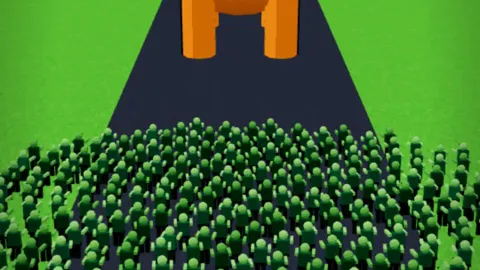
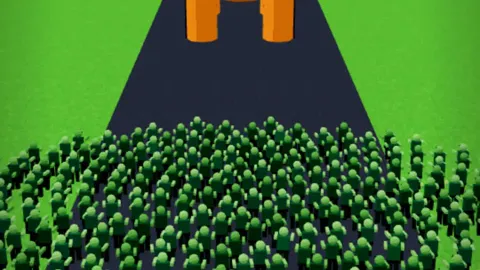
Zombie Horde + Black Hole City on the new kit (shell, feel, walk cycle, camera)

Changed region(s): [[0.0, 0.4148, 1.0, 1.0], [0.375, 0.0, 0.625, 0.237]]

diff --git a/brad-demos/g/black-hole/index.html b/brad-demos/g/black-hole/index.html
@@ -3,15 +3,14 @@
 // Black Hole City: steer a hole that swallows coins, benches, trees, cars, houses, then skyscrapers. WASD / arrows / drag.
 // Anything smaller than the hole falls in (shrinks toward the centre); everything is one InstancedMesh per prop type.
 import { createStage, instances, sfx, rand, clamp, THREE } from '../_vendor/gp3d.js';
-import { toon, zombieGeo, catGeo, crowd, particles, sky, groundTex } from '../_vendor/gpkit.js';
+import { toon, zombieGeo, catGeo, crowd, particles, sky, groundTex, walkClock } from '../_vendor/gpkit.js';
 const st = createStage({ bg: 0x9fd8ff, fitWidth: 16, fov: 50 }); st.light(); sky(st.scene, 0x4aa8ff, 0xdff3ff, [70, 190]); const fx = particles(st.scene, 400);
 const A = 46, GROW = +(new URLSearchParams(location.search).get('grow') || 1); // half-size of the map
-const ground = new THREE.Mesh(new THREE.PlaneGeometry(A * 2.6, A * 2.6), toon(0xffffff, { map: groundTex('grass', 50) })); ground.rotation.x = -Math.PI / 2; st.scene.add(ground);
+const ground = new THREE.Mesh(new THREE.PlaneGeometry(700, 700), toon(0xffffff, { map: groundTex('grass', 290) })); ground.rotation.x = -Math.PI / 2; st.scene.add(ground);
 for (let i = -3; i <= 3; i++) for (const [w, h] of [[2.4, A * 2.6], [A * 2.6, 2.4]]) { const r = new THREE.Mesh(new THREE.PlaneGeometry(w, h), toon(0x4a4f5c)); r.rotation.x = -Math.PI / 2; r.position.set(w < 3 ? i * 15 : 0, .02, w < 3 ? 0 : i * 15); st.scene.add(r); }
 const hole = new THREE.Mesh(new THREE.CircleGeometry(1, 40), new THREE.MeshBasicMaterial({ color: 0x000000 })); hole.rotation.x = -Math.PI / 2; hole.position.y = .06; st.scene.add(hole);
 const aura = new THREE.Mesh(new THREE.RingGeometry(1.12, 1.7, 40), new THREE.MeshBasicMaterial({ color: 0x7b4bff, transparent: true, opacity: .3, side: THREE.DoubleSide, depthWrite: false })); aura.rotation.x = -Math.PI / 2; aura.position.y = .065; st.scene.add(aura);
-const CG = f => { try { window.CrazyGames?.SDK?.game?.[f]?.(); } catch (e) {} };
-let best = 0, tleft = 90, over = false, endT = 0; try { best = +localStorage.getItem('bh-best') || 0; } catch (e) {}
+let tleft = 90, over = false;
 const ring = new THREE.Mesh(new THREE.RingGeometry(1, 1.12, 40), new THREE.MeshBasicMaterial({ color: 0x7b4bff, side: THREE.DoubleSide })); ring.rotation.x = -Math.PI / 2; ring.position.y = .07; st.scene.add(ring);
 // prop types: [geometry, size (footprint radius), height, volume score, count, colors]
 const TYPES = [
@@ -19,8 +18,8 @@ const TYPES = [
   { n: 'bench', g: new THREE.BoxGeometry(1.4, .5, .5), r: .8, h: .5, vol: 1.2, count: 40, col: [0x8a5a2e] },
   { n: 'tree', g: new THREE.ConeGeometry(.9, 2.6, 8), r: .9, h: 2.6, vol: 2.5, count: 50, col: [0x2f8f4a, 0x3aa65a] },
   { n: 'car', g: new THREE.BoxGeometry(2.4, 1.1, 1.2), r: 1.4, h: 1.1, vol: 4, count: 44, col: [0xe63946, 0x457b9d, 0xf1c453, 0xeeeeee] },
-  { n: 'house', g: new THREE.BoxGeometry(4, 3, 4), r: 2.8, h: 3, vol: 14, count: 32, col: [0xf4a261, 0xe9c46a, 0xd8b4a0, 0xb8c0ff] },
-  { n: 'tower', g: new THREE.BoxGeometry(5, 14, 5), r: 3.6, h: 14, vol: 40, count: 20, col: [0x6c7a96, 0x5a6785, 0x8892b0] },
+  { n: 'house', g: new THREE.BoxGeometry(4, 3, 4), r: 2.8, h: 3, vol: 14, count: 32, col: [0xff8a3c, 0xffd23c, 0xff6b9a, 0x6ec6ff] },
+  { n: 'tower', g: new THREE.BoxGeometry(5, 14, 5), r: 3.6, h: 14, vol: 40, count: 20, col: [0x3a7bd5, 0xe0457b, 0x7b4bff, 0x1fb6a6] },
 ];
 const winTex = (c, w, h) => { const cv = document.createElement('canvas'); cv.width = 64; cv.height = 128; const g = cv.getContext('2d'); g.fillStyle = c; g.fillRect(0, 0, 64, 128); for (let y = 8; y < 120; y += 18) for (let x = 8; x < 60; x += 18) { g.fillStyle = Math.random() < .35 ? '#ffe9a0' : '#2c3a58'; g.fillRect(x, y, 10, 10); } const t = new THREE.CanvasTexture(cv); t.colorSpace = THREE.SRGBColorSpace; return t; };
 TYPES[4].win = winTex('#d7a06a'); TYPES[5].win = winTex('#8892b0');
@@ -31,30 +30,32 @@ for (const T of TYPES) { const im = instances(T.g, T.win ? toon(0xffffff, { map:
     if (T.n === 'tower') { x = (Math.floor(rand(-3, 3)) + .5) * 15 + rand(-3, 3); z = (Math.floor(rand(-3, 3)) + .5) * 15 + rand(-3, 3); }
     const it = { x, z, s: 1, fall: 0, gone: false, rot: rand(0, 6) }; T.items.push(it); im.color(i, T.col[i % T.col.length]); } }
 const PN = 120, PED = Array.from({ length: PN }, (_, i) => ({ zom: i % 2 === 0, x: rand(-A, A), z: rand(-A, A), a: rand(0, 6), fall: 0, gone: false }));
-const ZB = crowd(st.scene, zombieGeo(), PN / 2), CT = crowd(st.scene, catGeo(), PN / 2); for (let i = 0; i < PN / 2; i++) { ZB.color(i, 0x8fcf7a); CT.color(i, [0xff9a3c, 0xf4efe4, 0x9aa0aa][i % 3]); }
+const ZB = crowd(st.scene, zombieGeo(), PN / 2, true, .75), CT = crowd(st.scene, catGeo(), PN / 2, true, .35); for (let i = 0; i < PN / 2; i++) { ZB.color(i, 0x8fcf7a); CT.color(i, [0xff9a3c, 0xf4efe4, 0x9aa0aa][i % 3]); }
 let screamCd = 0; const AUTOP = new URLSearchParams(location.search).has('auto');
 let hx = 0, hz = 0, size = 1.4, eaten = 0, shown = 0, lvl = 0; const LV = ['COINS', 'BENCHES', 'TREES', 'CARS', 'HOUSES', 'SKYSCRAPERS'];
 const ray = new THREE.Raycaster(), plane = new THREE.Plane(new THREE.Vector3(0, 1, 0), 0), tmp = new THREE.Vector3();
-function reset() { for (const T of TYPES) for (const it of T.items) { it.fall = 0; it.gone = false; it.s = 1; } for (const p of PED) { p.fall = 0; p.gone = false; } hx = hz = 0; eaten = 0; lvl = 0; tleft = 90; over = false; endT = 0; st.hud.banner('GO!', .8); CG('gameplayStart'); }
-CG('gameplayStart');
+function reset() { for (const T of TYPES) for (const it of T.items) { it.fall = 0; it.gone = false; it.s = 1; } for (const p of PED) { p.fall = 0; p.gone = false; } hx = hz = 0; eaten = 0; lvl = 0; tleft = 90; over = false; endT = 0; st.hud.banner('GO!', .8); }
+st.shell({ id: 'black-hole', title: 'BLACK HOLE CITY', sub: 'Swallow everything. 90 seconds.', onReset: reset });
+st.cine([{ t: 0, p: [0, 0, 0] }, { t: 0.01, p: [0, -3, -4] }, { t: 4, p: [0, 0, 0] }]);
 function update(dt) {
-  if (over) { endT += dt; if (!AUTOP && endT > 1.2 && (st.keys.r || st.keys.enter || st.ptr.down)) reset(); fx.update(dt); st.hud.hint(endT > 1.2 ? 'TAP or R to play again' : ''); return; }
+  if (over) { fx.update(dt); return; }
+  walkClock.value = st.t;
   tleft -= dt;
   const k = st.keys; let mx = (k.d || k.arrowright ? 1 : 0) - (k.a || k.arrowleft ? 1 : 0), mz = (k.s || k.arrowdown ? 1 : 0) - (k.w || k.arrowup ? 1 : 0);
   if (st.ptr.down) { ray.setFromCamera({ x: st.ptr.x, y: -st.ptr.y }, st.camera); if (ray.ray.intersectPlane(plane, tmp)) { const dx = tmp.x - hx, dz = tmp.z - hz, d = Math.hypot(dx, dz); if (d > .3) { mx = dx / d; mz = dz / d; } } }
   const l = Math.hypot(mx, mz) || 1, sp = 7 + size * 1.4; hx = clamp(hx + mx / l * sp * dt, -A, A); hz = clamp(hz + mz / l * sp * dt, -A, A);
   for (const T of TYPES) for (const it of T.items) { if (it.gone) continue; const d = Math.hypot(it.x - hx, it.z - hz);
     if (it.fall === 0 && d < size * .92 && T.r < size * .78) { it.fall = 1e-3; }
-    if (it.fall > 0) { it.fall += dt * 1.6; it.x += (hx - it.x) * Math.min(1, dt * 8); it.z += (hz - it.z) * Math.min(1, dt * 8); it.s = Math.max(0, 1 - it.fall); if (it.fall >= 1) { it.gone = true; eaten += T.vol * GROW; if (T.n !== 'coin') { sfx('pop', .4); st.shake(T.vol > 10 ? 3 : 1); } else if (Math.random() < .3) sfx('tick', .3); } } }
+    if (it.fall > 0) { it.fall += dt * 1.6; it.x += (hx - it.x) * Math.min(1, dt * 8); it.z += (hz - it.z) * Math.min(1, dt * 8); it.s = Math.max(0, 1 - it.fall); if (it.fall >= 1) { it.gone = true; eaten += T.vol * GROW; if (T.n !== 'coin') { sfx('pop', .4); st.shake(T.vol > 10 ? 3 : 1); if (T.vol > 10) { st.popup('+' + Math.round(T.vol), { x: hx, y: 3, z: hz }, '#c9a8ff'); st.hitstop(.04); st.kick(3); } } else if (Math.random() < .3) sfx('tick', .3); } } }
   screamCd -= dt;
   for (const p of PED) { if (p.gone) continue; const dx = p.x - hx, dz = p.z - hz, d = Math.hypot(dx, dz);
     if (p.fall === 0) { if (d < size * 2.4 && !p.zom) p.a = Math.atan2(dz, dx); else if (p.zom && d < 28) p.a = Math.atan2(-dz, -dx) + Math.sin(st.t) * .3; else p.a += rand(-1, 1) * dt * 2; p.x = clamp(p.x + Math.cos(p.a) * (p.zom ? 2.2 : 5) * dt, -A, A); p.z = clamp(p.z + Math.sin(p.a) * (p.zom ? 2.2 : 5) * dt, -A, A); if (d < size * .85) { p.fall = 1e-3; if (screamCd <= 0) { sfx(p.zom ? 'groan' : 'meow', .5); screamCd = .12; } } }
     else { p.fall += dt * 1.8; p.x += (hx - p.x) * Math.min(1, dt * 7); p.z += (hz - p.z) * Math.min(1, dt * 7); if (p.fall >= 1) { p.gone = true; eaten += .8 * GROW; fx.burst(8, { x: hx, y: .5, z: hz, size: .2, life: .6, color: p.zom ? 0x8bff4a : 0xff9a3c, g: 4 }, 3); } } }
   fx.update(dt);
-  size = 1.4 + Math.sqrt(eaten) * .5; const nl = TYPES.findIndex(T => T.r >= size * .78); const cl = nl < 0 ? TYPES.length : nl; if (cl > lvl && lvl < LV.length) { lvl = cl; if (lvl < TYPES.length) { st.hud.banner('NOW EATING ' + LV[lvl].toString(), 1.6); sfx('win'); } else st.hud.banner('EAT THE CITY', 2); }
+  size = 1.4 + Math.sqrt(eaten) * .5; const nl = TYPES.findIndex(T => T.r >= size * .78); const cl = nl < 0 ? TYPES.length : nl; if (cl > lvl && lvl < LV.length) { lvl = cl; if (lvl < TYPES.length) { st.hud.banner('NOW EATING ' + LV[lvl].toString(), 1.6); sfx('win'); st.slowmo(.4, .6); st.flash('#7b4bff', .35); } else st.hud.banner('EAT THE CITY', 2); }
   const total = TYPES.reduce((a, T) => a + T.items.filter(i => !i.gone).length, 0);
-  st.hud.left(`SIZE<br><span style="color:#ffd34d;font-size:8vmin">${size.toFixed(1)}m</span>`); st.hud.right(`EATEN ${Math.round(eaten)}<br>LEFT ${total}<br>${Math.ceil(Math.max(0, tleft))}s · BEST ${best}`); st.hud.hint('WASD / drag to move the hole');
-  if (tleft <= 0 || total === 0) { over = true; endT = 0; CG('gameplayStop'); const sc = Math.round(eaten); if (sc > best) { best = sc; try { localStorage.setItem('bh-best', sc); } catch (e) {} } st.hud.banner(total === 0 ? 'CITY EATEN!' : 'TIME UP: ' + sc, 3); sfx('win'); }
+  st.hud.left(`SIZE<br><span style="color:#ffd34d;font-size:8vmin">${size.toFixed(1)}m</span>`); st.hud.right(`EATEN ${Math.round(eaten)}<br>LEFT ${total}<br>${Math.ceil(Math.max(0, tleft))}s`); st.hud.hint('WASD / drag to move the hole');
+  if (tleft <= 0 || total === 0) { over = true; st.hud.banner(total === 0 ? 'CITY EATEN!' : 'TIME UP', 3); sfx('win'); st.flash('#7b4bff', .5); st.end({ win: total === 0 || eaten > 800, score: Math.round(eaten), label: 'EATEN' }); }
   window.__game = { size: +size.toFixed(2), eaten: Math.round(eaten), left: total };
 }
 const camP = new THREE.Vector3(0, 12, 12), look = new THREE.Vector3();
@@ -62,7 +63,7 @@ function pre() {
   for (const T of TYPES) { T.items.forEach((it, i) => T.im.set(i, it.x, it.gone ? -50 : T.h / 2 * it.s - (it.fall > 0 ? it.fall * T.h * .6 : 0), it.z, it.s, it.s, it.s, 0, it.rot, 0)); T.im.done(); }
   { let zi = 0, ci = 0; for (const p of PED) { const s = p.gone ? 0 : (1 - p.fall) * .75, y = p.fall ? -p.fall * 1.2 : Math.abs(Math.sin(st.t * 11 + p.a * 3)) * .15; (p.zom ? ZB : CT).set(p.zom ? zi++ : ci++, p.x, y, p.z, s, p.fall ? st.t * 8 : -p.a + Math.PI / 2, 0, p.fall ? .5 : 0); } ZB.done(zi); CT.done(ci); }
   hole.scale.setScalar(size); ring.scale.setScalar(size); aura.scale.setScalar(size); aura.rotation.z = st.t * 2; aura.position.x = hx; aura.position.z = hz; hole.position.x = ring.position.x = hx; hole.position.z = ring.position.z = hz;
-  const h = 10 + size * 4.2, z = 9 + size * 3.2; camP.set(hx, h, hz + z * 1.0); st.camera.position.lerp(camP, .08); look.set(hx, 0, hz - 1); st.camera.lookAt(look);
+  const h = 8 + size * 6.0, z = 7 + size * 4.6; camP.set(hx, h, hz + z * 1.0); st.camera.position.lerp(camP, .08); look.set(hx, 0, hz - 1); st.camera.lookAt(look);
 }
 st.camera.position.set(0, 14, 14); st.run(update, pre);
 </script></body></html>

diff --git a/brad-demos/g/zombie-horde/index.html b/brad-demos/g/zombie-horde/index.html
@@ -3,41 +3,42 @@
 // Zombie Horde: steer a growing zombie mob (A/D or drag) through math gates, then overwhelm the GIANT CAT boss. One instanced zombie mesh;
 // only the first 700 are drawn, the counter shows the real number. Gate side is chosen by where the crowd centre is when it crosses.
 import { createStage, instances, sfx, rand, clamp, THREE } from '../_vendor/gp3d.js';
-import { toon, zombieGeo, catGeo, crowd, hero, particles, sky, groundTex } from '../_vendor/gpkit.js';
+import { toon, zombieGeo, catGeo, crowd, hero, particles, sky, groundTex, walkClock } from '../_vendor/gpkit.js';
 const st = createStage({ bg: 0x8fd3ff, fitWidth: 9.5, fov: 55, fog: [40, 110] }); st.light(); sky(st.scene, 0x3f8cff, 0xffe7b8, [50, 150]);
 const TRACK = 190, MAXDRAW = 700;
 const road = new THREE.Mesh(new THREE.PlaneGeometry(10, TRACK + 60), toon(0xffffff, { map: groundTex('asphalt', 10) })); road.rotation.x = -Math.PI / 2; road.position.z = TRACK / 2; st.scene.add(road);
 const grass = new THREE.Mesh(new THREE.PlaneGeometry(200, TRACK + 200), toon(0xffffff, { map: groundTex('grass', 60) })); grass.rotation.x = -Math.PI / 2; grass.position.set(0, -.02, TRACK / 2); st.scene.add(grass);
 const OPS = [['+20', n => n + 20, 1], ['×2', n => n * 2, 1], ['-15', n => Math.max(1, n - 15), 0], ['×3', n => n * 3, 1], ['+50', n => n + 50, 1], ['×2', n => n * 2, 1], ['-30', n => Math.max(1, n - 30), 0], ['×4', n => n * 4, 1]];
 const lab = (t, good) => { const cv = document.createElement('canvas'); cv.width = 256; cv.height = 192; const g = cv.getContext('2d'); g.fillStyle = good ? 'rgba(46,160,255,.7)' : 'rgba(255,70,70,.7)'; g.fillRect(0, 0, 256, 192); g.font = '900 120px Impact,Arial Black'; g.textAlign = 'center'; g.fillStyle = '#fff'; g.strokeStyle = '#000'; g.lineWidth = 10; g.strokeText(t, 128, 140); g.fillText(t, 128, 140); return new THREE.MeshBasicMaterial({ map: new THREE.CanvasTexture(cv), transparent: true, side: THREE.DoubleSide }); };
-const gates = []; for (let i = 0; i < 6; i++) { const z = 22 + i * 24, a = OPS[(i * 2) % 8], b = OPS[(i * 2 + 1) % 8], pair = [a, b]; if (i % 2) pair.reverse();
-  pair.forEach((op, s) => { const m = new THREE.Mesh(new THREE.PlaneGeometry(4.6, 3.4), lab(op[0], op[2])); m.position.set(s ? 2.5 : -2.5, 1.9, z); m.rotation.y = Math.PI; st.scene.add(m); }); gates.push({ z, ops: pair, used: false }); }
+const gates = [], gm = {}; for (let i = 0; i < 6; i++) { const z = 22 + i * 24, a = OPS[(i * 2) % 8], b = OPS[(i * 2 + 1) % 8], pair = [a, b]; if (i % 2) pair.reverse();
+  pair.forEach((op, s) => { const m = new THREE.Mesh(new THREE.PlaneGeometry(4.6, 3.4), lab(op[0], op[2])); m.position.set(s ? 2.5 : -2.5, 1.9, z); m.rotation.y = Math.PI; st.scene.add(m); (gm[z] = gm[z] || []).push(m); }); gates.push({ z, ops: pair, used: false, meshes: gm[z] }); }
 const castle = hero(catGeo(), 0xff9a3c, .025); castle.scale.setScalar(10); castle.rotation.y = Math.PI; castle.position.set(0, 0, TRACK + 2); st.scene.add(castle);
-const men = crowd(st.scene, zombieGeo(), MAXDRAW), foes = crowd(st.scene, catGeo(), 120), fx = particles(st.scene, 300);
+const men = crowd(st.scene, zombieGeo(), MAXDRAW, true, .75), foes = crowd(st.scene, catGeo(), 120, true, .35), fx = particles(st.scene, 300);
 for (let i = 0; i < MAXDRAW; i++) men.color(i, [0x7fbf6a, 0x8fcf7a, 0x6aa85a][i % 3]); for (let i = 0; i < 120; i++) foes.color(i, [0xff9a3c, 0x9aa0aa, 0xf4efe4][i % 3]);
 const AUTO = new URLSearchParams(location.search).has('auto');
 let n = 5, cx = 0, cz = 0, bossHP = 900, bossMax = 900, fight = false, won = false, lost = false, parts = [], foeN = 0, fallT = 0;
-const CG = f => { try { window.CrazyGames?.SDK?.game?.[f]?.(); } catch (e) {} };
-let best = 0, endT = 0; try { best = +localStorage.getItem('zh-best') || 0; } catch (e) {}
+let endT = 0;
 // gate frames: two posts and a glowing bar make each gate read as a real obstacle
 for (const g of gates) { const c = g.ops[0][2] && g.ops[1][2] ? 0x2ea0ff : 0xffb020; for (const x of [-5, 0, 5]) { const m = new THREE.Mesh(new THREE.BoxGeometry(.35, 3.8, .35), toon(0xdddddd)); m.position.set(x, 1.9, g.z); st.scene.add(m); } const b = new THREE.Mesh(new THREE.BoxGeometry(10.2, .35, .35), new THREE.MeshBasicMaterial({ color: c })); b.position.set(0, 3.8, g.z); st.scene.add(b); }
-function reset() { n = 5; cx = 0; cz = 0; bossHP = bossMax; fight = won = lost = false; fallT = 0; foeN = 0; parts = []; endT = 0; gates.forEach(g => g.used = false); castle.rotation.z = 0; castle.position.y = 0; st.hud.banner('GO!', .8); CG('gameplayStart'); }
-CG('gameplayStart');
+function reset() { n = 5; cx = 0; cz = 0; bossHP = bossMax; fight = won = lost = false; fallT = 0; foeN = 0; parts = []; endT = 0; gates.forEach(g => { g.used = false; g.meshes.forEach(m => { m.visible = true; }); }); castle.rotation.z = 0; castle.position.y = 0; st.hud.banner('GO!', .8); }
+st.shell({ id: 'zombie-horde', title: 'ZOMBIE HORDE', sub: 'Steer through the gates. Topple the giant cat.', onReset: reset });
+st.cine([{ t: 0, p: [0, 0, 0] }, { t: 3, p: [0, 3, -4] }, { t: 8, p: [0, 0, 0] }]);
 function update(dt) {
   if (!fight && !won && !lost) {
     const k = st.keys, mv = (k.d || k.arrowright ? 1 : 0) - (k.a || k.arrowleft ? 1 : 0); if (AUTO) { const g = gates.find(g => !g.used && g.z - cz < 14), want = g ? (g.ops[1][1](n) > g.ops[0][1](n) ? 2.4 : -2.4) : 0; cx += clamp(want - cx, -7 * dt, 7 * dt); } else if (mv) cx += mv * 7 * dt; else if (st.ptr.down) cx += (st.ptr.x * 3.8 - cx) * Math.min(1, dt * 9); cx = clamp(cx, -3.6, 3.6); cz += (9 + Math.min(4, n / 80)) * dt;
-    for (const g of gates) if (!g.used && cz >= g.z) { g.used = true; const op = g.ops[cx < 0 ? 0 : 1], before = n; n = Math.round(op[1](n)); sfx(op[2] ? 'ding' : 'crash'); st.hud.banner(op[0], .7); st.shake(op[2] ? 2 : 4); }
+    for (const g of gates) if (!g.used && cz >= g.z) { g.used = true; g.meshes.forEach(m => { m.visible = false; }); const op = g.ops[cx < 0 ? 0 : 1], before = n; n = Math.round(op[1](n)); sfx(op[2] ? 'ding' : 'crash'); st.hud.banner(op[0], .7); st.shake(op[2] ? 2 : 4); st.popup((n >= before ? '+' : '') + (n - before), { x: cx, y: 2.5, z: cz + 2 }, op[2] ? '#7dd3ff' : '#ff6b6b'); st.flash(op[2] ? '#3aa0ff' : '#ff3b3b', .25); st.kick(op[2] ? 5 : 2); if (n - before > 100) st.hitstop(.08); }
     if (cz >= TRACK - 16) { fight = true; foeN = 120; st.hud.banner('BOSS!', 1.2); sfx('boom'); }
   } else if (fight) {
     cz += (TRACK - 9 - cz) * Math.min(1, dt * 2); cx += (0 - cx) * Math.min(1, dt * 3); const dmg = n * .9 * dt, back = (bossMax * .5 + 80) * dt * (bossHP / bossMax + .2);
     bossHP -= dmg; n -= back; foeN = Math.ceil(120 * Math.max(0, bossHP) / bossMax); if (Math.random() < .3) sfx('tick', .3); st.shake(2);
-    if (bossHP <= 0) { fight = false; won = true; st.hud.banner('CASTLE DOWN!', 3); sfx('boom'); st.shake(14); sfx('win'); for (let i = 0; i < 60; i++) parts.push({ x: rand(-4, 4), y: rand(1, 12), z: TRACK + rand(-2, 2), vx: rand(-4, 4), vy: rand(2, 9), vz: rand(-3, 6) }); }
+    if (bossHP <= 0) { fight = false; won = true; st.hud.banner('CASTLE DOWN!', 3); sfx('boom'); st.shake(14); st.hitstop(.15); st.slowmo(.25, 1.2); st.flash('#fff', .7); sfx('win'); for (let i = 0; i < 60; i++) parts.push({ x: rand(-4, 4), y: rand(1, 12), z: TRACK + rand(-2, 2), vx: rand(-4, 4), vy: rand(2, 9), vz: rand(-3, 6) }); }
     else if (n <= 0) { n = 0; fight = false; lost = true; st.hud.banner('CRUSHED', 3); }
   }
   if (won) { fallT += dt; castle.rotation.z = Math.min(1.45, fallT * 1.1); castle.position.y = -fallT * .5; if (fallT < 1.5 && Math.random() < .5) fx.burst(3, { x: rand(-4, 4), y: 1, z: TRACK, size: .5, life: .8, color: 0xe8dcc0, g: 2 }, 4); }
-  if (won || lost) { if (!endT) { CG('gameplayStop'); if (n > best) { best = Math.round(n); try { localStorage.setItem('zh-best', best); } catch (e) {} } } endT += dt; if (!AUTO && endT > 1.2 && (st.keys.r || st.keys.enter || st.ptr.down)) reset(); }
+  if ((won || lost) && !endT) { endT = 1; st.end({ win: won, score: Math.round(n), label: 'CROWD' }); }
+  walkClock.value = st.t;
   fx.update(dt); for (const p of parts) { p.vy -= 14 * dt; p.x += p.vx * dt; p.y = Math.max(.1, p.y + p.vy * dt); p.z += p.vz * dt; }
-  st.hud.left(`CROWD<br><span style="color:#ffd34d;font-size:8vmin">${Math.max(0, Math.round(n)).toLocaleString()}</span>`); st.hud.right(fight || won ? `BOSS<br>${Math.max(0, Math.round(bossHP))}<br>BEST ${best}` : `GATES ${gates.filter(g => g.used).length}/${gates.length}`); st.hud.hint(won || lost ? (endT > 1.2 ? 'TAP or R to play again' : '') : 'A/D or drag: steer');
+  st.hud.left(`CROWD<br><span style="color:#ffd34d;font-size:8vmin">${Math.max(0, Math.round(n)).toLocaleString()}</span>`); st.hud.right(fight || won ? `BOSS<br>${Math.max(0, Math.round(bossHP))}` : `GATES ${gates.filter(g => g.used).length}/${gates.length}`); st.hud.hint('A/D or drag: steer');
   window.__game = { crowd: Math.round(n), boss: Math.round(bossHP), z: Math.round(cz), won, lost };
 }
 function pre() {

diff --git a/brad-demos/g/_vendor/gp3d.js b/brad-demos/g/_vendor/gp3d.js
@@ -7,10 +7,12 @@ export const rand = (a = 0, b = 1) => a + Math.random() * (b - a);
 export const clamp = (v, a, b) => Math.max(a, Math.min(b, v));
 
 export const events = (window.__events = []);
-let ac;
+let ac, muted = false;
+export const setMuted = m => { muted = m; };
 /** Tiny synth. Logs every call to window.__events so gamepress can rebuild the audio offline. */
 export function sfx(type, vol = 1) {
   events.push({ t: +(performance.now() / 1000).toFixed(2), type });
+  if (muted) return;
   try {
     ac = ac || new (window.AudioContext || window.webkitAudioContext)();
     const t = ac.currentTime, o = ac.createOscillator(), g = ac.createGain(); o.connect(g); g.connect(ac.destination);
@@ -48,15 +50,60 @@ export function createStage({ bg = 0x101820, fov = 50, fitWidth = 10, fog } = {}
   st.hud = { left: s => (q('#h-l').innerHTML = s), right: s => (q('#h-r').innerHTML = s), hint: s => (q('#h-b').textContent = new URLSearchParams(location.search).has('clean') ? '' : s),
     banner(s, secs = 1.2) { q('#h-c').textContent = s; bannerT = secs; }, _tick(dt) { if (bannerT > 0 && (bannerT -= dt) <= 0) q('#h-c').textContent = ''; } };
   st.shake = a => { st.shakeAmt = Math.max(st.shakeAmt, a); };
-  /** update(dt) runs at a fixed 1/60 s; render happens once per animation frame. */
+  // ---- game feel: hit-stop, slow-mo, FOV kick, screen flash, floating text, scripted camera moves
+  st.freeze = 0; st.timeScale = 1; st.slowT = 0; st.paused = false; st.kickFov = 0; st.cineKeys = null; let flashA = 0, flashC = '#fff';
+  const flashEl = document.createElement('div'); flashEl.style.cssText = 'position:fixed;inset:0;pointer-events:none;opacity:0'; document.body.appendChild(flashEl);
+  const pops = []; const popLayer = document.createElement('div'); popLayer.style.cssText = 'position:fixed;inset:0;pointer-events:none;overflow:hidden'; document.body.appendChild(popLayer);
+  st.hitstop = (sec = .06) => { st.freeze = Math.max(st.freeze, sec); };
+  st.slowmo = (factor = .3, secs = 1) => { st.timeScale = factor; st.slowT = secs; };
+  st.flash = (color = '#fff', a = .5) => { flashA = a; flashC = color; };
+  st.kick = (deg = 6) => { st.kickFov = Math.max(st.kickFov, deg); };
+  /** Floating text at a world position (pos {x,y,z}); rises and fades over ~0.9 s of game time. */
+  st.popup = (text, pos, color = '#ffd34d', size = 6) => { const el = document.createElement('div'); el.textContent = text; el.style.cssText = `position:absolute;font-size:${size}vmin;color:${color};font-weight:900;text-shadow:0 .5vmin 0 #000,0 0 1vmin #000;transform:translate(-50%,-50%);white-space:nowrap`; popLayer.appendChild(el); pops.push({ el, p: { x: pos.x, y: pos.y, z: pos.z }, t: 0 }); if (pops.length > 24) pops.shift().el.remove(); };
+  /** Scripted camera move: keys [{t, p:[dx,dy,dz], fov}] in game seconds; offsets are added to the camera after the game positions it. */
+  st.cine = keys => { st.cineKeys = keys; };
+  // ---- shell: title card, pause, results with best score, replay, mute. Skipped under ?auto / ?clean so capture stays clean.
+  const qs = new URLSearchParams(location.search), CLEAN = qs.has('clean') || qs.has('auto');
+  const ov = document.createElement('div'); ov.style.cssText = 'position:fixed;inset:0;display:none;align-items:center;justify-content:center;flex-direction:column;text-align:center;color:#fff;background:rgba(8,10,20,.72);font-size:5vmin;text-shadow:0 .6vmin 0 #000;z-index:9'; document.body.appendChild(ov);
+  let shellOn = false, ended = false, endT = 0, shellId = 'game';
+  const show = html => { ov.innerHTML = html; ov.style.display = 'flex'; }, hide = () => { ov.style.display = 'none'; };
+  st.shell = ({ id, title, sub = 'Tap or press any key to start', onReset } = {}) => {
+    shellId = id || 'game'; st.onReset = onReset; shellOn = true;
+    if (!CLEAN) { st.paused = true; show(`<div style="font-size:12vmin;color:#ffd34d;line-height:1">${title}</div><div style="font-size:4vmin;margin-top:3vh;font-family:system-ui,sans-serif;font-weight:800">${sub}</div>`); }
+    const go = () => { if (st.paused && !ended) { st.paused = false; hide(); st.onStart?.(); } else if (ended && endT > .8) { ended = false; hide(); st.onReset?.(); } };
+    addEventListener('pointerdown', go); addEventListener('keydown', e => {
+      if (e.key === 'm' || e.key === 'M') { muted = !muted; } else if ((e.key === 'p' || e.key === 'P' || e.key === 'Escape') && !ended && !st.paused) { st.paused = true; show('<div style="font-size:12vmin">PAUSED</div><div style="font-size:4vmin;font-family:system-ui,sans-serif">tap to resume · M mutes</div>'); }
+      else if (!e.repeat) go(); });
+  };
+  /** Show the results panel. Best score is kept per game id in localStorage. */
+  st.end = ({ win = false, score = 0, label = 'SCORE' } = {}) => {
+    if (ended) return; ended = true; endT = 0; let best = 0; try { best = +localStorage.getItem('gp-best-' + shellId) || 0; if (score > best) { best = score; localStorage.setItem('gp-best-' + shellId, best); } } catch {}
+    st.result = { win, score, best }; window.__result = st.result;
+    if (shellOn && !CLEAN) show(`<div style="font-size:12vmin;color:${win ? '#7dff7d' : '#ff6b6b'}">${win ? 'YOU WIN' : 'GAME OVER'}</div><div style="margin-top:2vh">${label} <b style="color:#ffd34d">${score.toLocaleString()}</b></div><div style="font-size:3.6vmin;margin-top:1vh;font-family:system-ui,sans-serif">BEST ${best.toLocaleString()}</div><div style="font-size:3.6vmin;margin-top:4vh;font-family:system-ui,sans-serif;font-weight:800">tap or press any key to play again</div>`);
+  };
+  st.isEnded = () => ended; st.endTick = dt => { if (ended) endT += dt; };
+  /** update(dt) runs at a fixed 1/60 s (scaled by slow-mo); render happens once per animation frame. */
   st.run = (update, pre) => {
-    let last = 0, acc = 0;
+    let last = 0, acc = 0, baseFov = camera.fov;
     const frame = ts => {
       acc += Math.min(0.1, (ts - last) / 1000 || 0.016); last = ts;
-      while (acc >= 1 / 60) { st.t += 1 / 60; update(1 / 60); st.hud._tick(1 / 60); acc -= 1 / 60; st.shakeAmt = Math.max(0, st.shakeAmt - 1.2 / 60 * 10); }
+      while (acc >= 1 / 60) {
+        acc -= 1 / 60; st.endTick(1 / 60); if (st.paused) continue;
+        if (st.freeze > 0) { st.freeze -= 1 / 60; continue; }
+        if (st.slowT > 0 && (st.slowT -= 1 / 60) <= 0) st.timeScale = 1;
+        const dt = 1 / 60 * st.timeScale; st.t += dt; update(dt); st.hud._tick(dt); st.shakeAmt = Math.max(0, st.shakeAmt - 1.2 / 60 * 10);
+        for (let i = pops.length - 1; i >= 0; i--) { pops[i].t += dt; pops[i].p.y += dt * 2; if (pops[i].t > .9) { pops[i].el.remove(); pops.splice(i, 1); } }
+        st.kickFov *= .9; flashA *= .88;
+      }
       pre?.();
+      if (st.cineKeys) { const k = st.cineKeys; let i = k.findIndex(x => x.t > st.t); if (i < 0) i = k.length; const a = k[Math.max(0, i - 1)], b = k[Math.min(k.length - 1, i)], u = b.t > a.t ? clamp((st.t - a.t) / (b.t - a.t), 0, 1) : 1, e = u * u * (3 - 2 * u);
+        camera.position.x += a.p[0] + (b.p[0] - a.p[0]) * e; camera.position.y += a.p[1] + (b.p[1] - a.p[1]) * e; camera.position.z += a.p[2] + (b.p[2] - a.p[2]) * e; }
+      const fv = baseFov + st.kickFov + (st.cineKeys ? 0 : 0); if (camera.fov !== fv) { camera.fov = fv; camera.updateProjectionMatrix(); }
       if (st.shakeAmt > 0) { camera.position.x += rand(-1, 1) * st.shakeAmt * .02; camera.position.y += rand(-1, 1) * st.shakeAmt * .02; }
-      renderer.render(scene, camera); requestAnimationFrame(frame);
+      renderer.render(scene, camera);
+      flashEl.style.background = flashC; flashEl.style.opacity = flashA > .01 ? flashA : 0;
+      for (const p of pops) { const v = new THREE.Vector3(p.p.x, p.p.y, p.p.z).project(camera); p.el.style.left = (v.x * .5 + .5) * innerWidth + 'px'; p.el.style.top = (-v.y * .5 + .5) * innerHeight + 'px'; p.el.style.opacity = String(1 - p.t / .9); }
+      requestAnimationFrame(frame);
     };
     requestAnimationFrame(frame);
   };

diff --git a/brad-demos/g/_vendor/gpkit.js b/brad-demos/g/_vendor/gpkit.js
@@ -34,8 +34,19 @@ export const carGeo = () => build([
   ...[[-1, 1.3], [1, 1.3], [-1, -1.3], [1, -1.3]].map(([x, z]) => ({ g: 'cyl', s: [.8, .4, .8], p: [x * 1.02, .4, z], r: [0, 0, Math.PI / 2], c: 0x141414 }))]);
 
 /** Instanced character set: returns {mesh, set(i,x,y,z,scale,yaw,pitch,roll), color(i,hex)} using vertex-coloured toon material. */
-export function crowd(scene, geo, count, tint = true) {
-  const mesh = new T.InstancedMesh(geo, toon(0xffffff, { vertexColors: true }), count); mesh.instanceMatrix.setUsage(T.DynamicDrawUsage); mesh.frustumCulled = false; scene.add(mesh);
+/** Shared walk clock: set walkClock.value = st.t each update; crowds created with {legs} swing their legs from it. */
+export const walkClock = { value: 0 };
+/** Vertex-shader walk cycle: vertices below `legH` swing front/back (opposite per side), arms bob. Phase is per instance so a crowd never marches in step. */
+function walkMat(mat, legH, speed) {
+  mat.onBeforeCompile = sh => { sh.uniforms.uWalk = walkClock; sh.vertexShader = 'uniform float uWalk;\n' + sh.vertexShader.replace('#include <begin_vertex>',
+    `#include <begin_vertex>
+     float lg = clamp(1.0 - position.y / ${legH.toFixed(2)}, 0.0, 1.0); float ph = uWalk * ${speed.toFixed(1)} + instanceMatrix[3].x * 3.1 + instanceMatrix[3].z * 2.3;
+     transformed.z += sin(ph + sign(position.x) * 1.57) * 0.30 * lg * lg; transformed.y += abs(sin(ph)) * 0.05 * (1.0 - lg);`); };
+  return mat;
+}
+export function crowd(scene, geo, count, tint = true, legs = 0) {
+  const mat = toon(0xffffff, { vertexColors: true }); if (legs) walkMat(mat, legs, 11);
+  const mesh = new T.InstancedMesh(geo, mat, count); mesh.instanceMatrix.setUsage(T.DynamicDrawUsage); mesh.frustumCulled = false; scene.add(mesh);
   const o = new T.Object3D(), c = new T.Color(); o.rotation.order = 'YXZ';
   return { mesh, set(i, x, y, z, s = 1, yaw = 0, pitch = 0, roll = 0) { o.position.set(x, y, z); o.scale.setScalar(s); o.rotation.set(pitch, yaw, roll); o.updateMatrix(); mesh.setMatrixAt(i, o.matrix); },
     color(i, hex) { c.setHex(hex); mesh.setColorAt(i, c); }, hsl(i, h, s, l) { c.setHSL(h, s, l); mesh.setColorAt(i, c); }, done(n) { if (n !== undefined) mesh.count = n; mesh.instanceMatrix.needsUpdate = true; if (mesh.instanceColor) mesh.instanceColor.needsUpdate = true; } };
